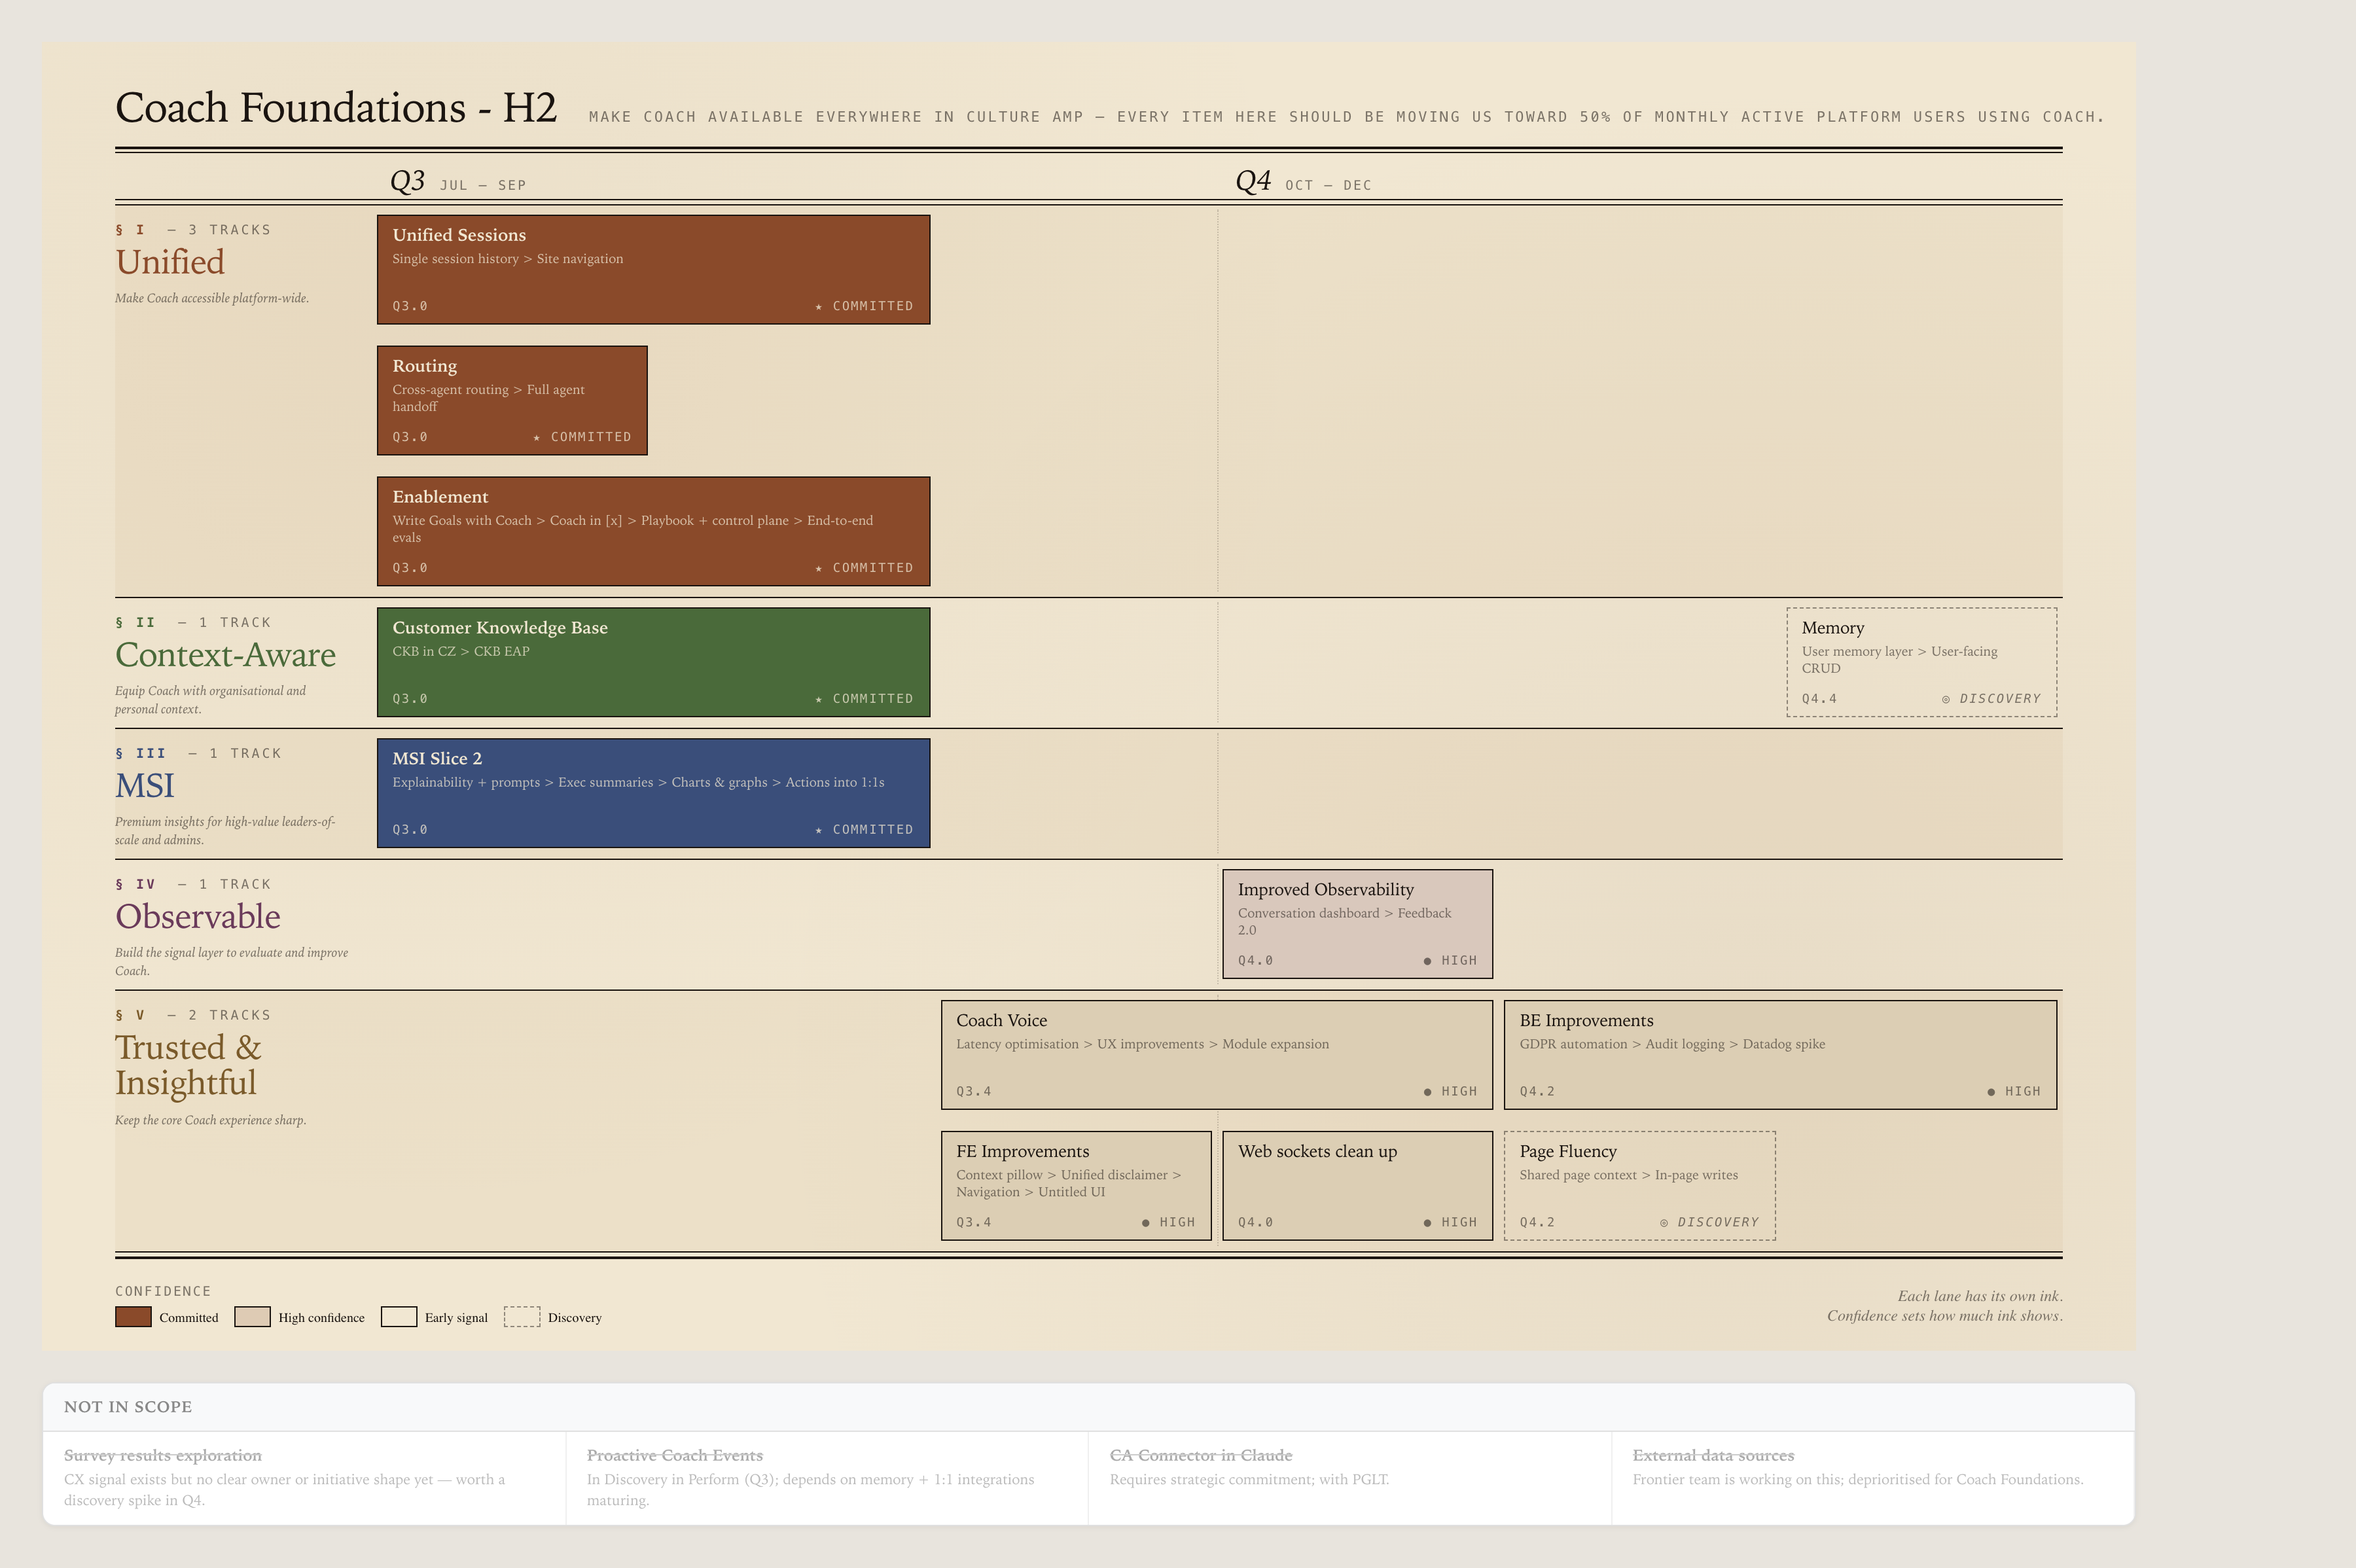
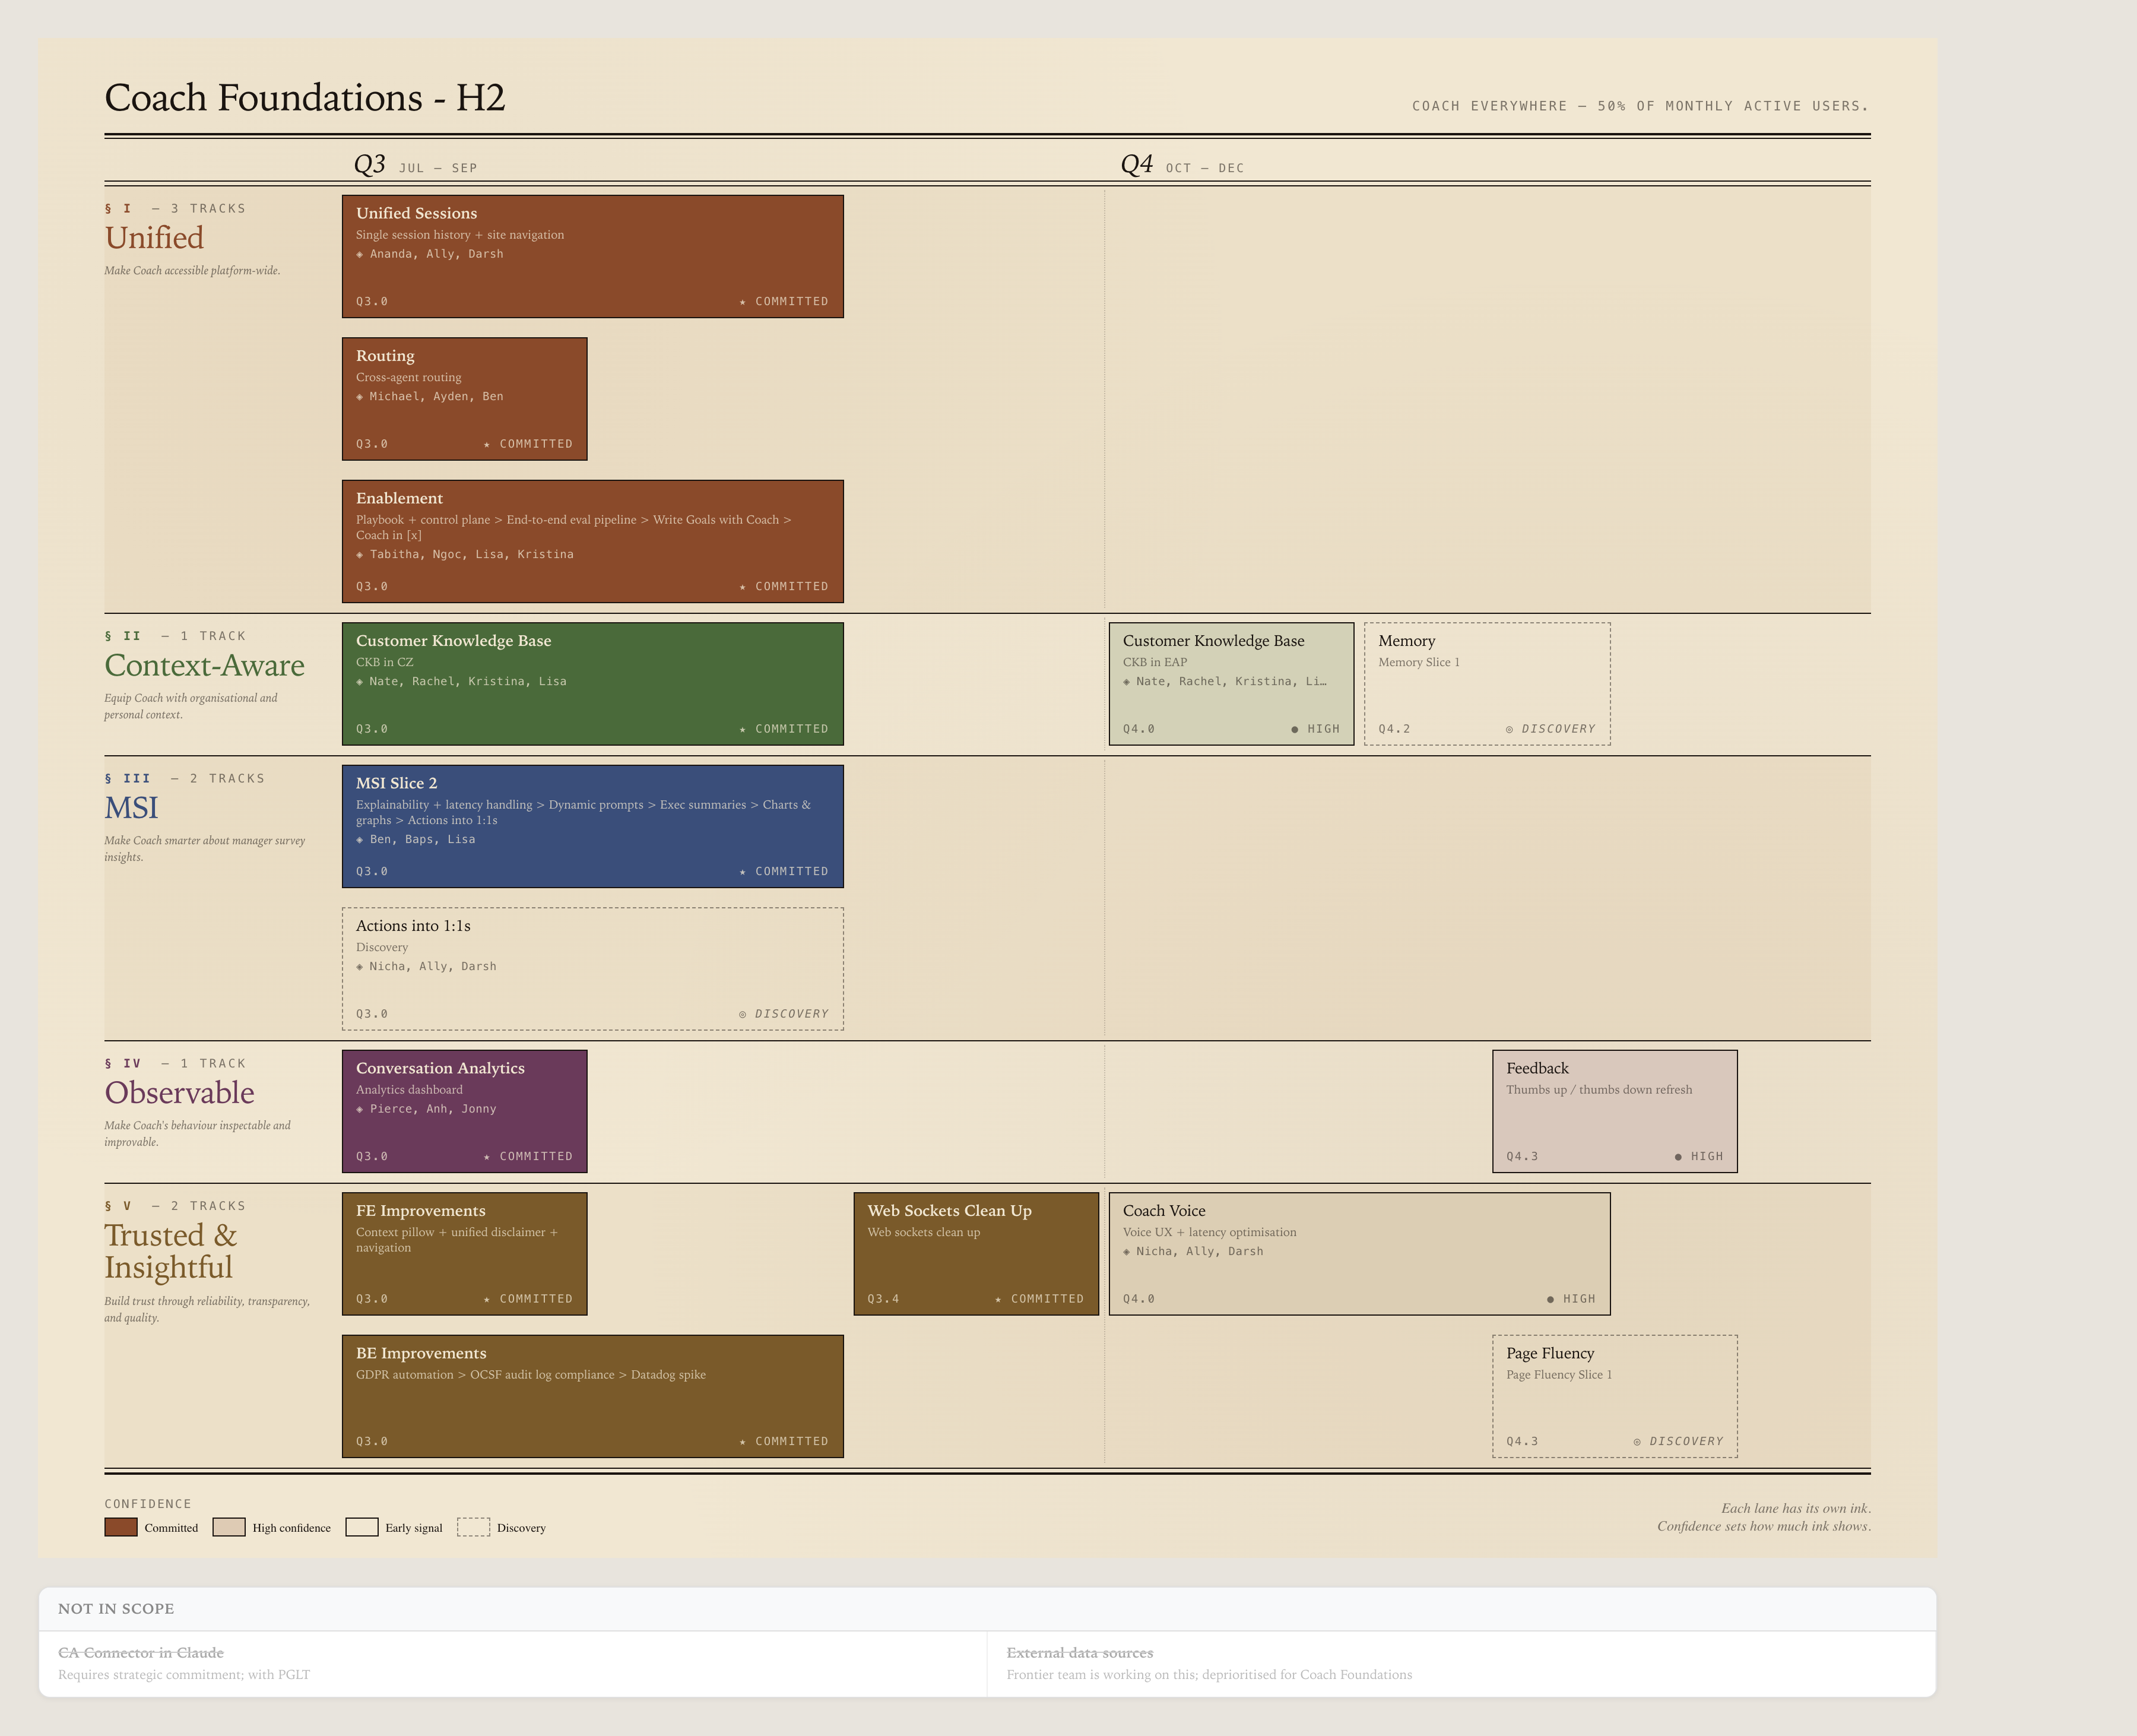
feat(roadmap): add Conversation Analytics initiative
Renames Coach Analytics → Conversation Analytics, bumps to Committed,
brings forward to Early Q3, adds Pierce/Anh/Jonny. Updates priorities,
initiative view, roadmap, and re-rendered HTML/PNG.

diff --git a/projects/core-coach/roadmap.html b/projects/core-coach/roadmap.html
@@ -156,7 +156,7 @@
           <div style="min-width:0;">
             <div style="font-size:13px;line-height:1.15;font-weight:600;font-style:normal;letter-spacing:-0.1px;color:#f1e7d2;">Enablement</div>
             <div style="margin-top:3px;font-size:10px;line-height:1.3;color:rgba(241,231,210,0.75);font-weight:400;font-style:normal;letter-spacing:0;overflow:hidden;white-space:normal;word-break:break-word;">Playbook + control plane &gt; End-to-end eval pipeline &gt; Write Goals with Coach &gt; Coach in [x]</div>
-            <div style="margin-top:4px;font-size:9.5px;line-height:1.2;color:rgba(241,231,210,0.75);font-weight:400;font-style:normal;letter-spacing:0.2px;white-space:nowrap;overflow:hidden;text-overflow:ellipsis;font-family:ui-monospace,monospace;">◈ Tabitha, Ngoc</div>
+            <div style="margin-top:4px;font-size:9.5px;line-height:1.2;color:rgba(241,231,210,0.75);font-weight:400;font-style:normal;letter-spacing:0.2px;white-space:nowrap;overflow:hidden;text-overflow:ellipsis;font-family:ui-monospace,monospace;">◈ Tabitha, Ngoc, Lisa, Kristina</div>
           </div>
           <div style="display:flex;align-items:center;flex-shrink:0;margin-top:3px;"></div>
         </div>
@@ -195,7 +195,7 @@
           <div style="min-width:0;">
             <div style="font-size:13px;line-height:1.15;font-weight:600;font-style:normal;letter-spacing:-0.1px;color:#f1e7d2;">Customer Knowledge Base</div>
             <div style="margin-top:3px;font-size:10px;line-height:1.3;color:rgba(241,231,210,0.75);font-weight:400;font-style:normal;letter-spacing:0;overflow:hidden;white-space:normal;word-break:break-word;">CKB in CZ</div>
-            <div style="margin-top:4px;font-size:9.5px;line-height:1.2;color:rgba(241,231,210,0.75);font-weight:400;font-style:normal;letter-spacing:0.2px;white-space:nowrap;overflow:hidden;text-overflow:ellipsis;font-family:ui-monospace,monospace;">◈ Nate, Rachel, Lisa</div>
+            <div style="margin-top:4px;font-size:9.5px;line-height:1.2;color:rgba(241,231,210,0.75);font-weight:400;font-style:normal;letter-spacing:0.2px;white-space:nowrap;overflow:hidden;text-overflow:ellipsis;font-family:ui-monospace,monospace;">◈ Nate, Rachel, Kristina, Lisa</div>
           </div>
           <div style="display:flex;align-items:center;flex-shrink:0;margin-top:3px;"></div>
         </div>
@@ -217,7 +217,7 @@
           <div style="min-width:0;">
             <div style="font-size:13px;line-height:1.15;font-weight:500;font-style:normal;letter-spacing:-0.1px;color:#1a1410;">Customer Knowledge Base</div>
             <div style="margin-top:3px;font-size:10px;line-height:1.3;color:rgba(26,20,16,0.55);font-weight:400;font-style:normal;letter-spacing:0;overflow:hidden;white-space:normal;word-break:break-word;">CKB in EAP</div>
-            <div style="margin-top:4px;font-size:9.5px;line-height:1.2;color:rgba(26,20,16,0.55);font-weight:400;font-style:normal;letter-spacing:0.2px;white-space:nowrap;overflow:hidden;text-overflow:ellipsis;font-family:ui-monospace,monospace;">◈ Nate, Rachel, Lisa</div>
+            <div style="margin-top:4px;font-size:9.5px;line-height:1.2;color:rgba(26,20,16,0.55);font-weight:400;font-style:normal;letter-spacing:0.2px;white-space:nowrap;overflow:hidden;text-overflow:ellipsis;font-family:ui-monospace,monospace;">◈ Nate, Rachel, Kristina, Lisa</div>
           </div>
           <div style="display:flex;align-items:center;flex-shrink:0;margin-top:3px;"></div>
         </div>
@@ -330,22 +330,22 @@
       <div class="tooltip"><ul style="margin:0;padding:0 0 0 14px;"><li style="margin-bottom:6px;"><strong>Analytics dashboard</strong> — Create an 'at a glance' view of popular Coach topics; enable inspection of de-identified traces</li></ul></div>
       <div style="
         width:100%; height:100%;
-        background:rgb(217,200,188); border:1px solid #1a1410;
+        background:#6a3a5a; border:1.8px solid #1a1410;
         padding:8px 11px; box-sizing:border-box;
         display:flex; flex-direction:column; justify-content:space-between;
-        overflow:hidden; color:#1a1410; cursor:default;
+        overflow:hidden; color:#f1e7d2; cursor:default;
       ">
         <div style="display:flex;justify-content:space-between;align-items:flex-start;gap:8px;">
           <div style="min-width:0;">
-            <div style="font-size:13px;line-height:1.15;font-weight:500;font-style:normal;letter-spacing:-0.1px;color:#1a1410;">Coach Analytics</div>
-            <div style="margin-top:3px;font-size:10px;line-height:1.3;color:rgba(26,20,16,0.55);font-weight:400;font-style:normal;letter-spacing:0;overflow:hidden;white-space:normal;word-break:break-word;">Analytics dashboard</div>
-            
+            <div style="font-size:13px;line-height:1.15;font-weight:600;font-style:normal;letter-spacing:-0.1px;color:#f1e7d2;">Conversation Analytics</div>
+            <div style="margin-top:3px;font-size:10px;line-height:1.3;color:rgba(241,231,210,0.75);font-weight:400;font-style:normal;letter-spacing:0;overflow:hidden;white-space:normal;word-break:break-word;">Analytics dashboard</div>
+            <div style="margin-top:4px;font-size:9.5px;line-height:1.2;color:rgba(241,231,210,0.75);font-weight:400;font-style:normal;letter-spacing:0.2px;white-space:nowrap;overflow:hidden;text-overflow:ellipsis;font-family:ui-monospace,monospace;">◈ Pierce, Anh, Jonny</div>
           </div>
           <div style="display:flex;align-items:center;flex-shrink:0;margin-top:3px;"></div>
         </div>
-        <div style="font-size:9.5px;letter-spacing:1.2px;text-transform:uppercase;color:rgba(26,20,16,0.55);display:flex;justify-content:space-between;align-items:center;gap:8px;font-family:ui-monospace,monospace;">
+        <div style="font-size:9.5px;letter-spacing:1.2px;text-transform:uppercase;color:rgba(241,231,210,0.75);display:flex;justify-content:space-between;align-items:center;gap:8px;font-family:ui-monospace,monospace;">
           <span>Q3.0</span>
-          <span style="font-style:normal;white-space:nowrap;">● high</span>
+          <span style="font-style:normal;white-space:nowrap;">★ committed</span>
         </div>
       </div>
     </div><div class="card-wrap" style="position:absolute;left:1225.0px;top:852.0px;width:207.3px;height:104.0px;z-index:10;">
@@ -387,26 +387,26 @@
       
       <div style="position:absolute;top:968px;height:232px;left:898.0px;border-left:1px dotted rgba(26,20,16,0.18);"></div>
     
-      <div class="card-wrap" style="position:absolute;left:686.7px;top:972.0px;width:422.7px;height:104.0px;z-index:10;">
+      <div class="card-wrap" style="position:absolute;left:902.0px;top:972.0px;width:422.7px;height:104.0px;z-index:10;">
       <div class="tooltip"><ul style="margin:0;padding:0 0 0 14px;"><li style="margin-bottom:6px;"><strong>Voice UX + latency optimisation</strong> — Enable Voice for Engage / Perform, improve UX for high latency interactions</li></ul></div>
       <div style="
         width:100%; height:100%;
-        background:#7a5a2a; border:1.8px solid #1a1410;
+        background:rgb(220,206,180); border:1px solid #1a1410;
         padding:8px 11px; box-sizing:border-box;
         display:flex; flex-direction:column; justify-content:space-between;
-        overflow:hidden; color:#f1e7d2; cursor:default;
+        overflow:hidden; color:#1a1410; cursor:default;
       ">
         <div style="display:flex;justify-content:space-between;align-items:flex-start;gap:8px;">
           <div style="min-width:0;">
-            <div style="font-size:13px;line-height:1.15;font-weight:600;font-style:normal;letter-spacing:-0.1px;color:#f1e7d2;">Coach Voice</div>
-            <div style="margin-top:3px;font-size:10px;line-height:1.3;color:rgba(241,231,210,0.75);font-weight:400;font-style:normal;letter-spacing:0;overflow:hidden;white-space:normal;word-break:break-word;">Voice UX + latency optimisation</div>
-            <div style="margin-top:4px;font-size:9.5px;line-height:1.2;color:rgba(241,231,210,0.75);font-weight:400;font-style:normal;letter-spacing:0.2px;white-space:nowrap;overflow:hidden;text-overflow:ellipsis;font-family:ui-monospace,monospace;">◈ Nicha, Ally, Darsh</div>
+            <div style="font-size:13px;line-height:1.15;font-weight:500;font-style:normal;letter-spacing:-0.1px;color:#1a1410;">Coach Voice</div>
+            <div style="margin-top:3px;font-size:10px;line-height:1.3;color:rgba(26,20,16,0.55);font-weight:400;font-style:normal;letter-spacing:0;overflow:hidden;white-space:normal;word-break:break-word;">Voice UX + latency optimisation</div>
+            <div style="margin-top:4px;font-size:9.5px;line-height:1.2;color:rgba(26,20,16,0.55);font-weight:400;font-style:normal;letter-spacing:0.2px;white-space:nowrap;overflow:hidden;text-overflow:ellipsis;font-family:ui-monospace,monospace;">◈ Nicha, Ally, Darsh</div>
           </div>
           <div style="display:flex;align-items:center;flex-shrink:0;margin-top:3px;"></div>
         </div>
-        <div style="font-size:9.5px;letter-spacing:1.2px;text-transform:uppercase;color:rgba(241,231,210,0.75);display:flex;justify-content:space-between;align-items:center;gap:8px;font-family:ui-monospace,monospace;">
-          <span>Q3.4</span>
-          <span style="font-style:normal;white-space:nowrap;">★ committed</span>
+        <div style="font-size:9.5px;letter-spacing:1.2px;text-transform:uppercase;color:rgba(26,20,16,0.55);display:flex;justify-content:space-between;align-items:center;gap:8px;font-family:ui-monospace,monospace;">
+          <span>Q4.0</span>
+          <span style="font-style:normal;white-space:nowrap;">● high</span>
         </div>
       </div>
     </div><div class="card-wrap" style="position:absolute;left:256.0px;top:972.0px;width:207.3px;height:104.0px;z-index:10;">
@@ -453,7 +453,7 @@
           <span style="font-style:normal;white-space:nowrap;">★ committed</span>
         </div>
       </div>
-    </div><div class="card-wrap" style="position:absolute;left:686.7px;top:1092.0px;width:207.3px;height:104.0px;z-index:10;">
+    </div><div class="card-wrap" style="position:absolute;left:686.7px;top:972.0px;width:207.3px;height:104.0px;z-index:10;">
       <div class="tooltip"><ul style="margin:0;padding:0 0 0 14px;"><li style="margin-bottom:6px;"><strong>Web sockets clean up</strong> — Ensure web sockets is properly supported across Coach instances</li></ul></div>
       <div style="
         width:100%; height:100%;
@@ -475,7 +475,7 @@
           <span style="font-style:normal;white-space:nowrap;">★ committed</span>
         </div>
       </div>
-    </div><div class="card-wrap" style="position:absolute;left:1225.0px;top:972.0px;width:207.3px;height:104.0px;z-index:10;">
+    </div><div class="card-wrap" style="position:absolute;left:1225.0px;top:1092.0px;width:207.3px;height:104.0px;z-index:10;">
       <div class="tooltip"><ul style="margin:0;padding:0 0 0 14px;"><li style="margin-bottom:6px;"><strong>Page Fluency Slice 1</strong> — Shared context between Coach and the page; Coach can make in-page edits — lays the foundation for Coach-first workflow experiences.</li></ul></div>
       <div style="
         width:100%; height:100%;

diff --git a/projects/core-coach/quarterly-priorities.md b/projects/core-coach/quarterly-priorities.md
@@ -16,32 +16,32 @@ Goal: Make Coach available everywhere in Culture Amp. Every item here should be 
 
 ## Priorities
 
-| Stream | Initiative | Work Item | Description | Confidence | When? | Estimate | Priority |
+| Stream | Initiative | Work Item | Description | Confidence | When? | Estimate | People |
 | --- | --- | --- | --- | --- | --- | --- | --- |
-| Unified | Unified Sessions | Single session history + site navigation | Users can see all Coach sessions in one place and navigate between Coach-enabled pages without losing context — making Coach feel like one product. | Committed | Early Q3 | Large |  |
-| Unified | Routing | Cross-agent routing | A question asked in Engage Coach can be routed to the Perform agent when appropriate — removing the seam between Coach contexts. | Committed | Early Q3 | Medium |  |
-| Unified | Enablement | Write Goals with Coach | Support the Goals team to ship Coach in Goals with PSX + MCP support | Committed | Late Q3 | Medium |  |
-| Unified | Enablement | Coach in [x] | Support Perform camp with Discovery around: Coach in probation, 1:1s, AF | Committed | Late Q3 | Small |  |
-| Unified | Enablement | Playbook + control plane | Equip teams building on Coach with updated playbook, control plane, and prompt library | Committed | Early Q3 | Medium |  |
-| Unified | Enablement | End-to-end eval pipeline | Any triggering event (new agent, model change, guardrail update) runs a new eval — gives teams shipping confidence | Committed | Early Q3 | Small |  |
+| Unified | Unified Sessions | Single session history + site navigation | Users can see all Coach sessions in one place and navigate between Coach-enabled pages without losing context — making Coach feel like one product. | Committed | Early Q3 | Large | Ananda, Ally, Darsh |
+| Unified | Routing | Cross-agent routing | A question asked in Engage Coach can be routed to the Perform agent when appropriate — removing the seam between Coach contexts. | Committed | Early Q3 | Medium | Michael, Ayden, Ben |
+| Unified | Enablement | Write Goals with Coach | Support the Goals team to ship Coach in Goals with PSX + MCP support | Committed | Late Q3 | Medium | Tabitha, Ngoc, Lisa, Kristina |
+| Unified | Enablement | Coach in [x] | Support Perform camp with Discovery around: Coach in probation, 1:1s, AF | Committed | Late Q3 | Small | Tabitha, Ngoc, Lisa, Kristina |
+| Unified | Enablement | Playbook + control plane | Equip teams building on Coach with updated playbook, control plane, and prompt library | Committed | Early Q3 | Medium | Tabitha, Ngoc, Lisa, Kristina |
+| Unified | Enablement | End-to-end eval pipeline | Any triggering event (new agent, model change, guardrail update) runs a new eval — gives teams shipping confidence | Committed | Early Q3 | Small | Tabitha, Ngoc, Lisa, Kristina |
 |  |  |  |  |  |  |  |  |
-| Context-Aware | Customer Knowledge Base | CKB in CZ | CZ admins can upload company context to Coach to make Coach's response more tailored and company-specific (EAP, GA → Q4) | Committed | Early Q3 | Large |  |
-| Context-Aware | Memory | Memory Slice 1 | Coach can store and serve user-level settings and text-based memory across sessions — making replies more personally relevant over time. | Discovery | Early Q3 | Small |  |
+| Context-Aware | Customer Knowledge Base | CKB in CZ | CZ admins can upload company context to Coach to make Coach's response more tailored and company-specific (EAP, GA → Q4) | Committed | Early Q3 | Large | Nate, Rachel, Kristina, Lisa |
+| Context-Aware | Memory | Memory Slice 1 | Coach can store and serve user-level settings and text-based memory across sessions — making replies more personally relevant over time. | Discovery | Early Q3 | Small | — |
 |  |  |  |  |  |  |  |  |
-| MSI | MSI Slice 2 | Explainability + latency handling | Coach streams its thinking, data retrieval, and sources to the user — building trust and managing perceived latency during heavy tool calls. | Committed | Early Q3 | Small |  |
-| MSI | MSI Slice 2 | Dynamic prompts | Coach detects admin vs leader context and surfaces tailored prompts — driving deeper engagement with insight data. | Committed | Early Q3 | Medium |  |
-| MSI | MSI Slice 2 | Exec summaries | Coach outputs a structured summary for leaders-of-scale to copy/use directly — reducing the gap between insight and action. | Committed | Late Q3 | Medium |  |
-| MSI | MSI Slice 2 | Charts & graphs | Coach renders charts where appropriate — improves insight expressiveness for MSS. Q4 scope: extend charting to new data types. | Committed | Early Q4 | Medium |  |
-| MSI | MSI Slice 2 | Actions into 1:1s | Enable users to add Coach-suggested actions directly to a 1:1 agenda — first step toward in-platform action-taking. | Discovery | Late Q3 | Medium |  |
+| MSI | MSI Slice 2 | Explainability + latency handling | Coach streams its thinking, data retrieval, and sources to the user — building trust and managing perceived latency during heavy tool calls. | Committed | Early Q3 | Small | Ben, Baps, Lisa |
+| MSI | MSI Slice 2 | Dynamic prompts | Coach detects admin vs leader context and surfaces tailored prompts — driving deeper engagement with insight data. | Committed | Early Q3 | Medium | Ben, Baps, Lisa |
+| MSI | MSI Slice 2 | Exec summaries | Coach outputs a structured summary for leaders-of-scale to copy/use directly — reducing the gap between insight and action. | Committed | Late Q3 | Medium | Ben, Baps, Lisa |
+| MSI | MSI Slice 2 | Charts & graphs | Coach renders charts where appropriate — improves insight expressiveness for MSS. Q4 scope: extend charting to new data types. | Committed | Early Q4 | Medium | Ben, Baps, Lisa |
+| MSI | MSI Slice 2 | Actions into 1:1s | Enable users to add Coach-suggested actions directly to a 1:1 agenda — first step toward in-platform action-taking. | Discovery | Late Q3 | Medium | Nicha, Ally, Darsh |
 |  |  |  |  |  |  |  |  |
-| Observable | Feedback | Thumbs up / thumbs down refresh | Turn thumbs up / down into actionable signal. | Discovery | Early Q4 | Medium |  |
-| Observable | Coach Analytics | Analytics dashboard | Create an 'at a glance' view of popular Coach topics; enable inspection of de-identified traces | High confidence | Late Q3 | Medium |  |
+| Observable | Feedback | Thumbs up / thumbs down refresh | Turn thumbs up / down into actionable signal. | Discovery | Early Q4 | Medium | — |
+| Observable | Conversation Analytics | Analytics dashboard | Create an 'at a glance' view of popular Coach topics; enable inspection of de-identified traces | Committed | Early Q3 | Medium | Pierce, Anh, Jonny |
 |  |  |  |  |  |  |  |  |
-| Trusted & Insightful | Coach Voice | Voice UX + latency optimisation | Enable Voice for Engage / Perform, improve UX for high latency interactions | High confidence | Early Q3 | Large |  |
-| Trusted & Insightful | FE Improvements | Context pillow + unified disclaimer + navigation | Context pillow shows what Coach is using, Coach has a unified disclaimer, secondary nav displays in Coach tap in main nav | Committed | Early Q3 | Small |  |
-| Trusted & Insightful | BE Improvements | Compliance and codebase health | GDPR automation, OCSF audit log compliance, Datadog spike | Committed | Early Q3 | Large |  |
-| Trusted & Insightful | Web sockets clean up | Web sockets clean up | Ensure web sockets is properly supported across Coach instances | Committed | Late Q3 | Medium |  |
-| Trusted & Insightful | Page Fluency | Page Fluency Slice 1 | Shared context between Coach and the page; Coach can make in-page edits — lays the foundation for Coach-first workflow experiences. | Discovery | Early Q4 | Medium |  |
+| Trusted & Insightful | Coach Voice | Voice UX + latency optimisation | Enable Voice for Engage / Perform, improve UX for high latency interactions | High confidence | Early Q3 | Large | Nicha, Ally, Darsh |
+| Trusted & Insightful | FE Improvements | Context pillow + unified disclaimer + navigation | Context pillow shows what Coach is using, Coach has a unified disclaimer, secondary nav displays in Coach tap in main nav | Committed | Early Q3 | Small | — |
+| Trusted & Insightful | BE Improvements | Compliance and codebase health | GDPR automation, OCSF audit log compliance, Datadog spike | Committed | Early Q3 | Large | — |
+| Trusted & Insightful | Web sockets clean up | Web sockets clean up | Ensure web sockets is properly supported across Coach instances | Committed | Late Q3 | Medium | — |
+| Trusted & Insightful | Page Fluency | Page Fluency Slice 1 | Shared context between Coach and the page; Coach can make in-page edits — lays the foundation for Coach-first workflow experiences. | Discovery | Early Q4 | Medium | — |
 
 ---
 

diff --git a/projects/core-coach/initiative-view.md b/projects/core-coach/initiative-view.md
@@ -1,3 +1,11 @@
+---
+title: "Q3 — Initiative Summary: Coach Foundations"
+confluence_page_id: 6346015278
+confluence_space: COACHCAMP
+confluence_url: "https://cultureamp.atlassian.net/wiki/spaces/COACHCAMP/pages/6346015278/Q3+Initiative+Summary+Coach+Foundations"
+last_synced: "2026-06-23T07:04:27.682Z"
+---
+
 # Q3 — Initiative Summary: Coach Foundations
 
 Q3 is about making Coach feel like one product across Culture Amp — unified, context-aware, and trustworthy enough to reach 50% of monthly active platform users.
@@ -8,14 +16,10 @@ Q3 is about making Coach feel like one product across Culture Amp — unified, c
 
 | Initiative | Stream | What it is | Why it matters | Status |
 |---|---|---|---|---|
-| Unified Sessions | Unified | A single session history and navigation layer across all Coach-enabled pages. | Users currently experience Coach as disconnected per-page tools — unifying sessions makes Coach feel like one product and removes the biggest friction to repeat use. | Committed |
-| Routing | Unified | Cross-agent routing so a question in one Coach context can be answered by the right agent. | Removes the seam between Coach contexts so users get the right answer regardless of where they started the conversation. | Committed |
-| Enablement | Unified | A playbook, control plane, eval pipeline, and direct support for teams shipping Coach in Goals and Perform. | Without this infrastructure, teams building on Coach have no shared standards or confidence tooling — this makes Coach extensible at scale. | Committed |
-| | | | | |
-| Customer Knowledge Base | Context-Aware | A CZ admin interface for uploading company-specific context that Coach uses to ground its responses. | Generic responses are the main reason Coach feels unhelpful to specific customers — company context makes Coach meaningfully more relevant. | Committed |
-| | | | | |
-| MSI Slice 2 | MSI | A set of improvements to Coach's manager survey insight experience: explainability, dynamic prompts, exec summaries, charts, and action-linking. | MSI is Coach's highest-engagement surface — this slice closes the gap between surfacing insights and helping leaders act on them. | Committed |
-| | | | | |
-| FE Improvements | Trusted & Insightful | A context pillow, unified disclaimer, and secondary nav improvements across Coach surfaces. | Small UX gaps (what data is Coach using? what are its limits?) erode trust — these fixes make Coach feel polished and transparent. | Committed |
-| BE Improvements | Trusted & Insightful | Compliance and codebase health work: GDPR automation, OCSF audit log compliance, and a Datadog spike. | Non-negotiable foundations — without these, Coach can't be sold into regulated markets or operated reliably at scale. | Committed |
-| Web Sockets Clean Up | Trusted & Insightful | Ensuring web socket support is consistent and correct across all Coach instances. | Inconsistent web socket behaviour is a source of subtle reliability issues that are hard to debug and damage user trust. | Committed |
+| [**Unified Sessions**](https://cultureamp.atlassian.net/wiki/spaces/COACHCAMP/pages/6039667036) | Unified | A single session history and navigation layer across all Coach-enabled pages. | Users currently experience Coach as disconnected per-page tools — unifying sessions makes Coach feel like one product and removes the biggest friction to repeat use. | Committed |
+| [**Routing**](https://cultureamp.atlassian.net/wiki/spaces/COACHCAMP/pages/6350110803) | Unified | Cross-agent routing so a question in one Coach context can be answered by the right agent. | Removes the seam between Coach contexts so users get the right answer regardless of where they started the conversation. | Committed |
+| [**Customer Knowledge Base**](https://cultureamp.atlassian.net/wiki/spaces/COACHCAMP/pages/5986156868) | Context-Aware | A CZ admin interface for uploading company-specific context that Coach uses to ground its responses. | Generic responses are the main reason Coach feels unhelpful to specific customers — company context makes Coach meaningfully more relevant. | Committed |
+| **MSI Slice 2** *(PM: Mann)* | MSI | A set of improvements to Coach's manager survey insight experience: explainability, dynamic prompts, exec summaries, charts, and action-linking. | MSI is Coach's highest-engagement surface — this slice closes the gap between surfacing insights and helping leaders act on them. | Committed |
+| **Enablement** | Unified | A playbook, control plane, eval pipeline, and direct support for teams shipping Coach in Goals and Perform. | Without this infrastructure, teams building on Coach have no shared standards or confidence tooling — this makes Coach extensible at scale. | Committed |
+| [**Conversation Analytics**](https://cultureamp.atlassian.net/wiki/spaces/CL/pages/6306636573/Conversation+Analytics+-+Improvements) | Observable | Improvements to the Conversation Analytics tool — sampling, precomputed weekly ranges, and week-over-week trends — to make Coach conversation data fast and easy to act on. | The existing tool is too slow to be useful day-to-day; these improvements make it the primary lens for understanding what Coach users are actually asking and whether quality is improving. | Committed |
+| **Codebase Maintenance + Improvements** | Trusted & Insightful | GDPR automation, OCSF audit log compliance, web socket consistency, and a unified disclaimer across Coach surfaces. | Good engineering practice and regulatory compliance — these keep Coach operable at scale, auditable in regulated markets, and trustworthy to end users. | Committed |

diff --git a/projects/core-coach/roadmap.md b/projects/core-coach/roadmap.md
@@ -41,7 +41,7 @@ Make Coach accessible platform-wide.
 |---|---|---|---|---|---|---|---|
 | Unified Sessions | Q3.0 | Committed | Large | Reach | Single session history + site navigation | Single session history + site navigation: Users can see all Coach sessions in one place and navigate between Coach-enabled pages without losing context — making Coach feel like one product. | Ananda, Ally, Darsh |
 | Routing | Q3.0 | Committed | Medium | Reach | Cross-agent routing | Cross-agent routing: A question asked in Engage Coach can be routed to the Perform agent when appropriate — removing the seam between Coach contexts. | Michael, Ayden, Ben |
-| Enablement | Q3.0 | Committed | Large | Reach | Playbook + control plane > End-to-end eval pipeline > Write Goals with Coach > Coach in [x] | Playbook + control plane: Equip teams building on Coach with updated playbook, control plane, and prompt library ;; End-to-end eval pipeline: Any triggering event (new agent, model change, guardrail update) runs a new eval — gives teams shipping confidence ;; Write Goals with Coach: Support the Goals team to ship Coach in Goals with PSX + MCP support ;; Coach in [x]: Support Perform camp with Discovery around: Coach in probation, 1:1s, AF | Tabitha, Ngoc |
+| Enablement | Q3.0 | Committed | Large | Reach | Playbook + control plane > End-to-end eval pipeline > Write Goals with Coach > Coach in [x] | Playbook + control plane: Equip teams building on Coach with updated playbook, control plane, and prompt library ;; End-to-end eval pipeline: Any triggering event (new agent, model change, guardrail update) runs a new eval — gives teams shipping confidence ;; Write Goals with Coach: Support the Goals team to ship Coach in Goals with PSX + MCP support ;; Coach in [x]: Support Perform camp with Discovery around: Coach in probation, 1:1s, AF | Tabitha, Ngoc, Lisa, Kristina |
 
 ---
 
@@ -51,8 +51,8 @@ Equip Coach with organisational and personal context.
 
 | Initiative | Start | Confidence | Effort | Drives | Deliverables | WorkItems | People |
 |---|---|---|---|---|---|---|---|
-| Customer Knowledge Base | Q3.0 | Committed | Large | Engagement | CKB in CZ | CKB in CZ: CZ admins can upload company context to Coach to make Coach's response more tailored and company-specific (EAP, GA → Q4) | Nate, Rachel, Lisa |
-| Customer Knowledge Base | Q4.0 | High confidence | Medium | Engagement | CKB in EAP | CKB in EAP: Expand Customer Knowledge Base to EAP customers | Nate, Rachel, Lisa |
+| Customer Knowledge Base | Q3.0 | Committed | Large | Engagement | CKB in CZ | CKB in CZ: CZ admins can upload company context to Coach to make Coach's response more tailored and company-specific (EAP, GA → Q4) | Nate, Rachel, Kristina, Lisa |
+| Customer Knowledge Base | Q4.0 | High confidence | Medium | Engagement | CKB in EAP | CKB in EAP: Expand Customer Knowledge Base to EAP customers | Nate, Rachel, Kristina, Lisa |
 | Memory | Q4.2 | Discovery | Medium | Engagement | Memory Slice 1 | Memory Slice 1: Coach can store and serve user-level settings and text-based memory across sessions — making replies more personally relevant over time. | — |
 
 ---
@@ -74,7 +74,7 @@ Make Coach's behaviour inspectable and improvable.
 
 | Initiative | Start | Confidence | Effort | Drives | Deliverables | WorkItems | People |
 |---|---|---|---|---|---|---|---|
-| Coach Analytics | Q3.0 | High confidence | Medium | Foundation | Analytics dashboard | Analytics dashboard: Create an 'at a glance' view of popular Coach topics; enable inspection of de-identified traces | — |
+| Conversation Analytics | Q3.0 | Committed | Medium | Foundation | Analytics dashboard | Analytics dashboard: Create an 'at a glance' view of popular Coach topics; enable inspection of de-identified traces | Pierce, Anh, Jonny |
 | Feedback | Q4.3 | High confidence | Medium | Foundation | Thumbs up / thumbs down refresh | Thumbs up / thumbs down refresh: Turn thumbs up / down into actionable signal. | — |
 
 ---
@@ -85,7 +85,7 @@ Build trust through reliability, transparency, and quality.
 
 | Initiative | Start | Confidence | Effort | Drives | Deliverables | WorkItems | People |
 |---|---|---|---|---|---|---|---|
-| Coach Voice | Q3.4 | Committed | Large | Engagement | Voice UX + latency optimisation | Voice UX + latency optimisation: Enable Voice for Engage / Perform, improve UX for high latency interactions | Nicha, Ally, Darsh |
+| Coach Voice | Q4.0 | High confidence | Large | Engagement | Voice UX + latency optimisation | Voice UX + latency optimisation: Enable Voice for Engage / Perform, improve UX for high latency interactions | Nicha, Ally, Darsh |
 | FE Improvements | Q3.0 | Committed | Medium | Foundation | Context pillow + unified disclaimer + navigation | Context pillow + unified disclaimer + navigation: Context pillow shows what Coach is using, Coach has a unified disclaimer, secondary nav displays in Coach tap in main nav | — |
 | BE Improvements | Q3.0 | Committed | Large | Foundation | GDPR automation > OCSF audit log compliance > Datadog spike | GDPR automation: Automate GDPR compliance processes ;; OCSF audit log compliance: Bring audit logs into OCSF format ;; Datadog spike: Investigate and resolve Datadog integration issues | — |
 | Web Sockets Clean Up | Q3.4 | Committed | Medium | Foundation | Web sockets clean up | Web sockets clean up: Ensure web sockets is properly supported across Coach instances | — |